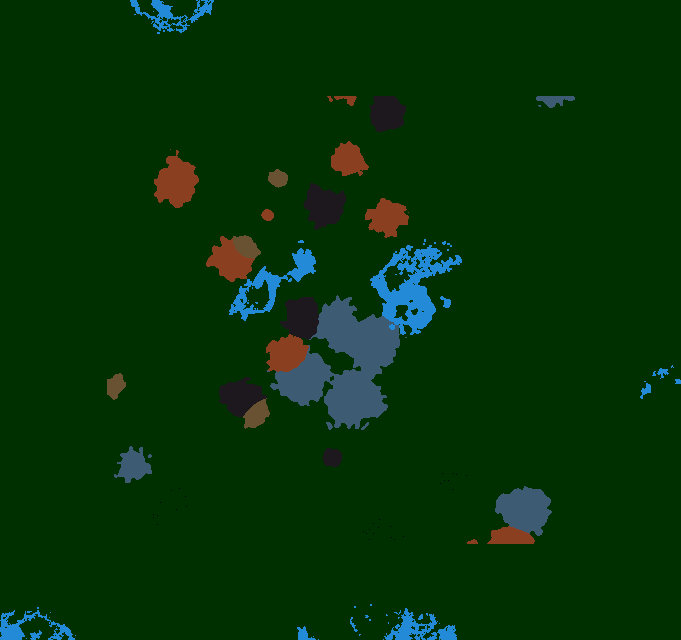
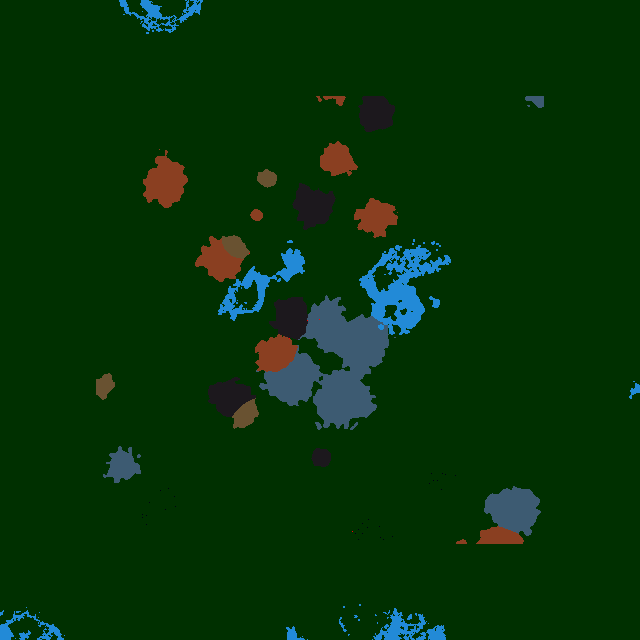
nearest ore patch finding

diff --git a/thinker/program.py b/thinker/program.py
@@ -5,10 +5,7 @@ from PIL import Image
 f = open("../scanner/nauvis.json", "r").read()
 d = json.loads(f)
 
-xmin = 999999999
-xmax = -999999999
-ymin = 999999999
-ymax = -999999999
+xmin, xmax, ymin, ymax = 999999999, -999999999, 999999999, -999999999
 
 for t in d["water"]:
     x, y = t
@@ -20,12 +17,7 @@ for t in d["water"]:
 w = abs(xmin - xmax)
 h = abs(ymin - ymax)
 
-print(xmin, ymin)
-print(xmax, ymax)
-print(w, h)
-
-im = Image.new("RGB", (w+1, h+1), "#003000")
-
+im = Image.new("RGB", (w + 1, h + 1), "#003000")
 pixels = im.load()
 
 for t in d["water"]:
@@ -34,35 +26,38 @@ for t in d["water"]:
     y -= ymin
     pixels[x, y] = (34, 138, 215)
 
+colors = [(105, 82, 49), (61, 91, 114), (138, 63, 33), (0, 0, 18), (28, 24, 29)]
 
-for t in d["resources"]["stone"]:
-    x, y, a = t
+i = 0
+for r in d["resources"].keys():
+    for t in d["resources"][r]:
+        x, y = t[0], t[1]
+        x -= xmin
+        y -= ymin
+        pixels[x, y] = colors[i]
+    i += 1
+
+nearest = {}
+
+for r in d["resources"].keys():
+    nearest_x = 9999
+    nearest_y = 9999
+    nearest_d = 9999
+    for t in d["resources"][r]:
+        x, y, a = t
+        dis_to_0 = abs(x) + abs(y)
+        if dis_to_0 < nearest_d:
+            nearest_x = x
+            nearest_y = y
+            nearest_d = dis_to_0
+    nearest[r] = [nearest_x, nearest_y]
+
+print(nearest)
+
+for n in nearest.values():
+    x, y = n[0], n[1]
     x -= xmin
     y -= ymin
-    pixels[x, y] = (105, 82, 49)
-
-for t in d["resources"]["iron-ore"]:
-    x, y, a = t
-    x -= xmin
-    y -= ymin
-    pixels[x, y] = (61, 91, 114)
-
-for t in d["resources"]["copper-ore"]:
-    x, y, a = t
-    x -= xmin
-    y -= ymin
-    pixels[x, y] = (138, 63, 33)
-
-for t in d["resources"]["crude-oil"]:
-    x, y, a = t
-    x -= xmin
-    y -= ymin
-    pixels[x, y] = (0, 0, 18)
-
-for t in d["resources"]["coal"]:
-    x, y, a = t
-    x -= xmin
-    y -= ymin
-    pixels[x, y] = (28, 24, 29)
+    pixels[x, y] = (256, 0, 0)
 
 im.save("out.png")
